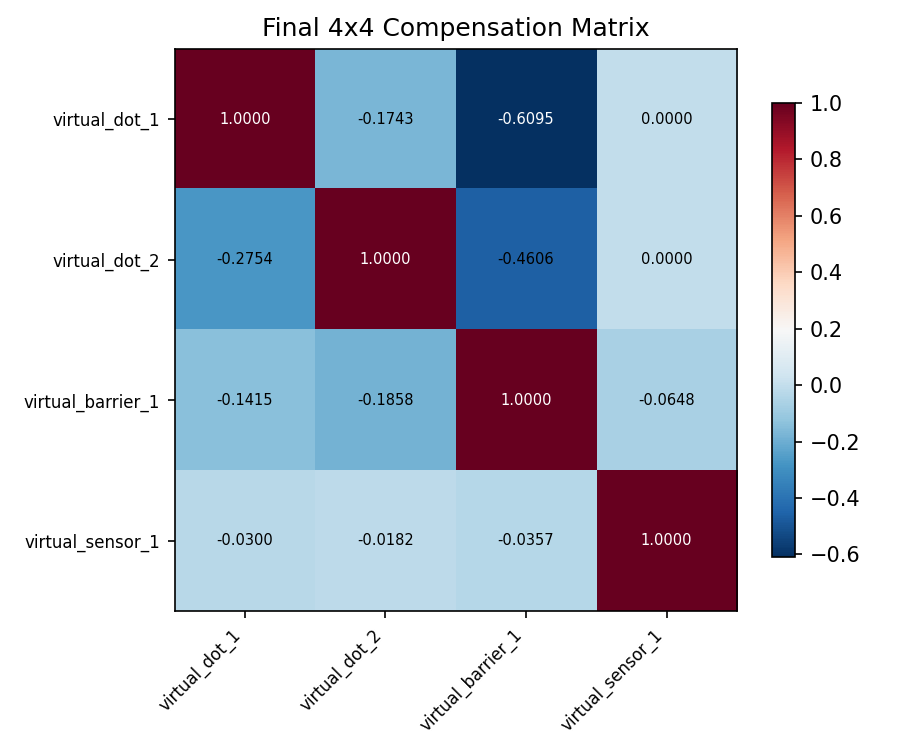
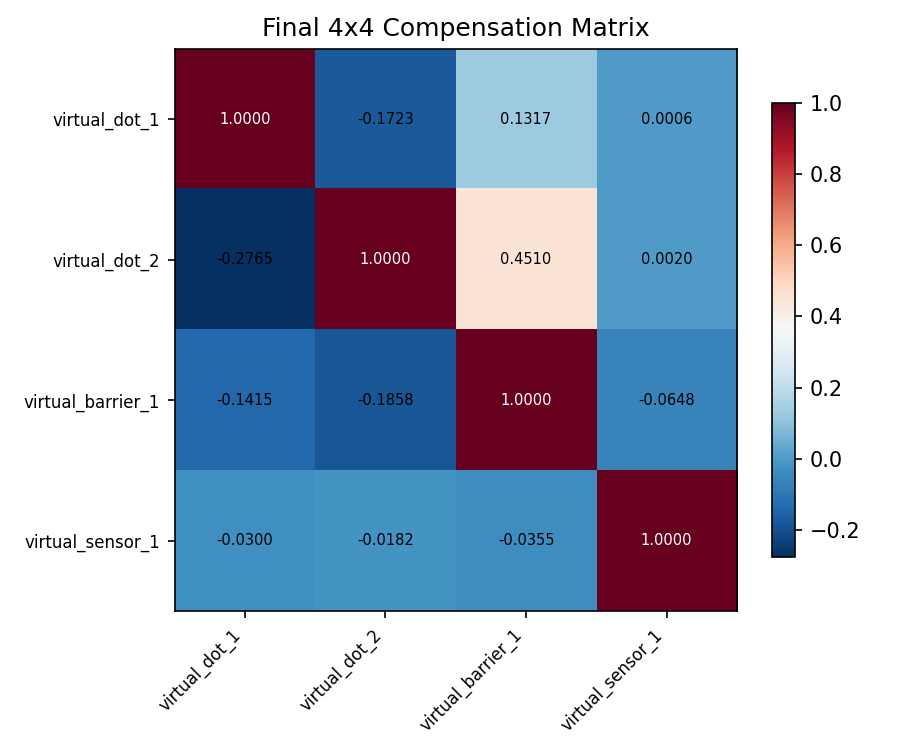
fix: correct angle convention and folding in asymmetric virtual plunger analysis
The asymmetric single-angle analysis (plunger vs barrier/sensor) had two bugs:
1. Angle selection used distance from π/2 (horizontal) instead of distance
   from 0/π (vertical) in the arctan2(d_col, d_row) % π convention.
2. Cross-talk formula used cot(θ) which diverges for near-vertical lines;
   corrected to tan(θ_v) where θ_v = min(θ, π−θ) folds to [0, π/2],
   ensuring θ=10° and θ=170° produce the same coefficient.

Also adds TestFullFlowWithSensorCoupling to verify the pipeline with
non-zero sensor-to-device dot capacitive coupling (Cgd[dot][sensor] > 0).

diff --git a/tests/analysis/qualibration_graphs/quantum_dots/calibrations/gate_virtualization/test_full_flow_virtual_gate_calibration.py b/tests/analysis/qualibration_graphs/quantum_dots/calibrations/gate_virtualization/test_full_flow_virtual_gate_calibration.py
@@ -412,10 +412,7 @@ class TestFullFlowVirtualGateCalibration:
 
     def _build_cgd(self) -> list[list[float]]:
         """Cgd matrix (6 dots × 8 gates). Override to add sensor coupling."""
-        return [
-            row + [0.02 if i < 2 else 0.0]
-            for i, row in enumerate(InitDotModel.dot_gate_capacitance())
-        ]
+        return [row + [0.02 if i < 2 else 0.0] for i, row in enumerate(InitDotModel.dot_gate_capacitance())]
 
     @staticmethod
     def _artifacts_subdir() -> str:
@@ -568,10 +565,42 @@ class TestFullFlowVirtualGateCalibration:
         scan_configs = [
             # (plunger_gate, device_gate, x_span, x_pts, y_center, y_span, y_pts)
             (DOT_1_GATE, DOT_2_GATE, PLUNGER_SPAN_V, PLUNGER_POINTS, PLUNGER_CENTER_V, PLUNGER_SPAN_V, PLUNGER_POINTS),
-            (DOT_1_GATE, BARRIER_GATE, PLUNGER_SPAN_V, PLUNGER_POINTS, PLUNGER_CENTER_V, BARRIER_PLUNGER_SPAN_V, PLUNGER_POINTS),
-            (DOT_2_GATE, BARRIER_GATE, PLUNGER_SPAN_V, PLUNGER_POINTS, PLUNGER_CENTER_V, BARRIER_PLUNGER_SPAN_V, PLUNGER_POINTS),
-            (DOT_1_GATE, SENSOR_GATE, PLUNGER_SPAN_V, PLUNGER_POINTS, sensor_op_mV * 1e-3, SENSOR_COMP_SPAN_V, PLUNGER_POINTS),
-            (DOT_2_GATE, SENSOR_GATE, PLUNGER_SPAN_V, PLUNGER_POINTS, sensor_op_mV * 1e-3, SENSOR_COMP_SPAN_V, PLUNGER_POINTS),
+            (
+                DOT_1_GATE,
+                BARRIER_GATE,
+                PLUNGER_SPAN_V,
+                PLUNGER_POINTS,
+                PLUNGER_CENTER_V,
+                BARRIER_PLUNGER_SPAN_V,
+                PLUNGER_POINTS,
+            ),
+            (
+                DOT_2_GATE,
+                BARRIER_GATE,
+                PLUNGER_SPAN_V,
+                PLUNGER_POINTS,
+                PLUNGER_CENTER_V,
+                BARRIER_PLUNGER_SPAN_V,
+                PLUNGER_POINTS,
+            ),
+            (
+                DOT_1_GATE,
+                SENSOR_GATE,
+                PLUNGER_SPAN_V,
+                PLUNGER_POINTS,
+                sensor_op_mV * 1e-3,
+                SENSOR_COMP_SPAN_V,
+                PLUNGER_POINTS,
+            ),
+            (
+                DOT_2_GATE,
+                SENSOR_GATE,
+                PLUNGER_SPAN_V,
+                PLUNGER_POINTS,
+                sensor_op_mV * 1e-3,
+                SENSOR_COMP_SPAN_V,
+                PLUNGER_POINTS,
+            ),
         ]
 
         for plunger_gate, device_gate, x_span, x_pts, y_center, y_span, y_pts in scan_configs:
@@ -605,10 +634,7 @@ class TestFullFlowVirtualGateCalibration:
             )
 
             fit = node.results["fit_results"][pair_key]
-            is_plunger_pair = (
-                plunger_gate in (DOT_1_GATE, DOT_2_GATE)
-                and device_gate in (DOT_1_GATE, DOT_2_GATE)
-            )
+            is_plunger_pair = plunger_gate in (DOT_1_GATE, DOT_2_GATE) and device_gate in (DOT_1_GATE, DOT_2_GATE)
             if is_plunger_pair:
                 assert fit["fit_params"]["success"], f"Fit failed for {pair_key}"
                 T = fit["T_matrix"]
@@ -645,9 +671,11 @@ class TestFullFlowVirtualGateCalibration:
                     "Scans": str(len(scan_configs)),
                 },
                 "results_text": ", ".join(
-                    f"det(T[{k}]) = {abs(np.linalg.det(v['T_matrix'])):.4f}"
-                    if v["T_matrix"] is not None
-                    else f"{k}: skipped"
+                    (
+                        f"det(T[{k}]) = {abs(np.linalg.det(v['T_matrix'])):.4f}"
+                        if v["T_matrix"] is not None
+                        else f"{k}: skipped"
+                    )
                     for k, v in results.items()
                 ),
                 "matrix_html": _matrix_snapshot_html(
@@ -877,8 +905,7 @@ class TestFullFlowVirtualGateCalibration:
             """Sensor voltage that tracks the Coulomb peak given physical
             plunger offsets, using the original step-1 alphas."""
             return sensor_op + (
-                sensor_comp.get(plunger_qi[0], 0.0) * phys_d1
-                + sensor_comp.get(plunger_qi[1], 0.0) * phys_d2
+                sensor_comp.get(plunger_qi[0], 0.0) * phys_d1 + sensor_comp.get(plunger_qi[1], 0.0) * phys_d2
             )
 
         def _build_voltage_rows(mode: str) -> np.ndarray:
@@ -961,8 +988,7 @@ class TestFullFlowVirtualGateCalibration:
                     "Sensor operating point": f"{sensor_op:.2f} mV",
                 },
                 "results_text": ", ".join(
-                    f"bg_std({mode})={np.std(d[n_sweep // 3 : 2 * n_sweep // 3, :]):.4f}"
-                    for mode, d in data.items()
+                    f"bg_std({mode})={np.std(d[n_sweep // 3 : 2 * n_sweep // 3, :]):.4f}" for mode, d in data.items()
                 ),
                 "matrix_html": _matrix_snapshot_html(
                     C[np.ix_(matrix_focus_idx, matrix_focus_idx)],
@@ -1010,12 +1036,17 @@ class TestFullFlowVirtualGateCalibration:
         focus_indices = sorted(gate_indices.values())
         focus_matrix = matrix[np.ix_(focus_indices, focus_indices)]
 
-        # Plunger→sensor entries may be zero if the plunger-vs-sensor
-        # analysis could not find a near-vertical charge transition.
+        # Plunger→sensor and plunger→barrier entries from step 2's asymmetric
+        # analysis may be zero when the charge transition tilt is too small
+        # for the edge detection to resolve (angle ≈ 0° → α = tan(0) = 0).
+        # The main barrier compensation comes from step 3.
         sensor_local = focus_indices.index(gate_indices[SENSOR_GATE])
+        barrier_local = focus_indices.index(gate_indices[BARRIER_GATE])
         maybe_zero = {
             (focus_indices.index(gate_indices[DOT_1_GATE]), sensor_local),
             (focus_indices.index(gate_indices[DOT_2_GATE]), sensor_local),
+            (focus_indices.index(gate_indices[DOT_1_GATE]), barrier_local),
+            (focus_indices.index(gate_indices[DOT_2_GATE]), barrier_local),
         }
 
         for i_local, i_global in enumerate(focus_indices):

diff --git a/qualibration_graphs/quantum_dots/calibration_utils/gate_virtualization/virtual_plunger_analysis.py b/qualibration_graphs/quantum_dots/calibration_utils/gate_virtualization/virtual_plunger_analysis.py
@@ -264,19 +264,17 @@ def _build_single_angle_matrix(theta: float) -> np.ndarray:
     (along the row/y axis) have θ ≈ 0 or θ ≈ π, and **horizontal** lines
     have θ ≈ π/2.
 
-    The cross-talk coefficient is the column (plunger) shift per unit row
-    (device-gate) change, i.e. ``α = d_col / d_row = sin(θ) / cos(θ) =
-    tan(θ)``.  For a perfectly vertical line (θ → 0) this is ≈ 0 (no
-    cross-talk), as expected.
-
-    In the symmetric ``_build_transformation_matrix`` the steep-line
-    entry is ``M[0,1] = 1/m_steep = 1/cot(θ) = tan(θ)``, consistent
-    with this formula.
+    The cross-talk coefficient is the unsigned tilt of the line away from
+    vertical: ``α = tan(θ_v)`` where ``θ_v = min(θ, π − θ)`` folds the
+    angle into [0, π/2].  This ensures that θ = 10° and θ = 170° (the
+    same physical line direction, differing only in segment orientation)
+    produce the same coefficient.
 
     Returns ``M = [[1, α], [0, 1]]``, so only M[0,1] is non-trivial.
     """
-    cos_t = np.cos(theta)
-    alpha = np.sin(theta) / cos_t if abs(cos_t) > 1e-12 else 0.0
+    theta_v = min(theta % np.pi, np.pi - theta % np.pi)
+    cos_t = np.cos(theta_v)
+    alpha = np.sin(theta_v) / cos_t if cos_t > 1e-12 else 0.0
     return np.array([[1.0, alpha], [0.0, 1.0]], dtype=float)
 
 